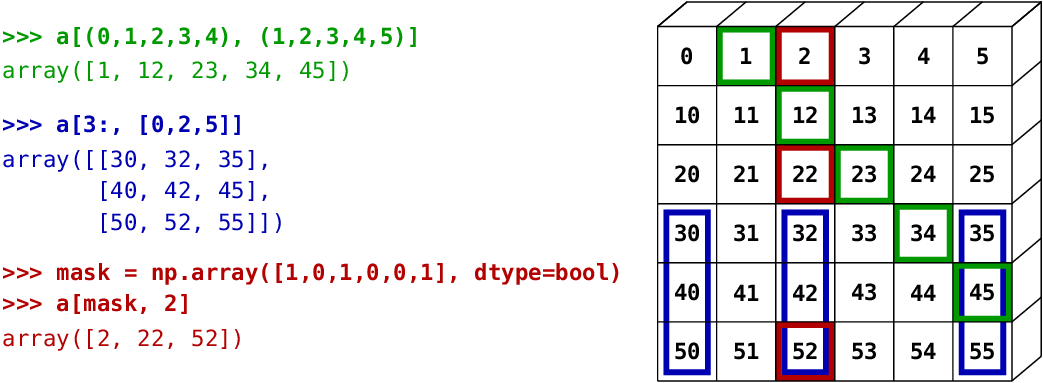
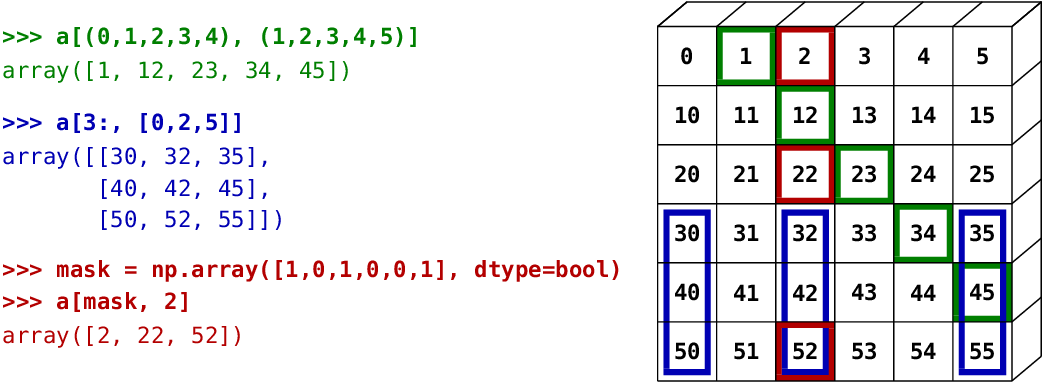
made code consistent with numpy_indexing image

diff --git a/pyximages/numpy_fancy_indexing.py b/pyximages/numpy_fancy_indexing.py
@@ -11,17 +11,36 @@ from math import cos, radians, sin
 from pyx import canvas, color, path, text, unit
 
 
-def markbox(x, y, boxcolor, linewidthfactor=0.1, boxsize=1):
-    '''mark box by a colored line
+def framebox(nx, ny, framecolor, nw=1, nh=1, boxsize=1, framefactor=0.1,
+             reducedsize=False):
+    '''draw color frame in one or across several boxes
 
-       the drawing is done on the global canvas called c
+       The drawing is done on the global canvas called c.
+
+       nx, ny:      coordinates of lower left corner in number of boxes
+       framecolor:  color
+       nw, nh:      width and height of frame in boxes
+       framefactor: framewidth as fraction of boxsize
+       boxsize:     side length of fox
+       reducedsize: if True, the size of the frame is reduced by the framewidth
+
     '''
-    linewidth = linewidthfactor*boxsize
-    p = (path.rect(x, y, boxsize, boxsize)
-         + path.rect(x+linewidth, y+linewidth,
-                     boxsize-2*linewidth, boxsize-2*linewidth).reversed()
+    x = nx*boxsize
+    y = ny*boxsize
+    w = nw*boxsize
+    h = nh*boxsize
+    if reducedsize:
+        outer_offset = framefactor*boxsize
+        inner_offset = 2*outer_offset
+    else:
+        outer_offset = 0
+        inner_offset = framefactor*boxsize
+    p = (path.rect(x+outer_offset, y+outer_offset,
+                   w-2*outer_offset, h-2*outer_offset)
+         + path.rect(x+inner_offset, y+inner_offset,
+                     w-2*inner_offset, h-2*inner_offset).reversed()
          )
-    c.fill(p, [boxcolor])
+    c.fill(p, [framecolor])
 
 
 ncols = 6
@@ -30,37 +49,28 @@ boxsize = 1
 angle = radians(40)
 reducedboxsize = 0.65*boxsize
 
+ex1color = color.rgb(0, 0.5, 0)
+ex2color = color.rgb(0, 0, 0.7)
+ex3color = color.rgb(0.7, 0, 0)
+
 text.set(text.LatexRunner)
-text.preamble(r'''\usepackage[T1]{fontenc}
-                  \usepackage{bera}
-                  \renewcommand*\familydefault{\ttdefault}
-                  \usepackage{color}
-                  \definecolor{ex1}{rgb}{0, 0, 0.7}
-                  \definecolor{ex2}{rgb}{0, 0.6, 0}
-                  \definecolor{ex3}{rgb}{0.7, 0, 0}''')
+preamble = r'''\usepackage[T1]{fontenc}
+               \usepackage{bera}
+               \renewcommand*\familydefault{\ttdefault}
+               \usepackage{color}'''
+for nr, elem in enumerate((ex1color, ex2color, ex3color)):
+    preamble = preamble+r'\definecolor{{ex{}color}}{{rgb}}{{{}, {}, {}}}'.format(
+                  nr+1, elem.r, elem.g, elem.b)
+text.preamble(preamble)
 unit.set(xscale=1.2)
 
 c = canvas.canvas()
-
-ex1color = color.rgb(0, 0, 0.7)
-linewidth = 0.1*boxsize
-for n in (0, 2, 5):
-    c.fill(path.rect(n*boxsize+linewidth, linewidth,
-                     boxsize-2*linewidth, 3*boxsize-2*linewidth),
-           [ex1color])
-    c.fill(path.rect(n*boxsize+2*linewidth, 2*linewidth,
-                     boxsize-4*linewidth, 3*boxsize-4*linewidth),
-           [color.grey(1)])
-
-ex2color = color.rgb(0, 0.6, 0)
-linewidth = 0.1
 for n in range(5):
-    markbox((n+1)*boxsize, (ncols-n-1)*boxsize, ex2color)
-
-ex3color = color.rgb(0.7, 0, 0)
-linewidth = 0.1
+    framebox(n+1, ncols-n-1, ex1color)
+for nx in (0, 2, 5):
+    framebox(nx, 0, ex2color, nh=3, reducedsize=True)
 for n in (0, 2, 5):
-    markbox(2*boxsize, (ncols-n-1)*boxsize, ex3color)
+    framebox(2, (ncols-n-1), ex3color)
 
 for nx in range(ncols+1):
     p = path.path(path.moveto(nx*boxsize, 0),
@@ -78,30 +88,43 @@ p = path.path(path.moveto(ncols*boxsize+reducedboxsize*cos(angle),
               path.rlineto(-nrows*boxsize, 0),
               path.rlineto(-reducedboxsize*cos(angle), -reducedboxsize*sin(angle)))
 c.stroke(p)
+
 for nx in range(ncols):
     x = (nx+0.5)*boxsize
     for ny in range(nrows):
         y = (ncols-ny-0.5)*boxsize
-        c.text(x, y, r'\textbf{{{}}}'.format(ny*10+nx), [text.halign.center, text.valign.middle])
+        c.text(x, y, r'\textbf{{{}}}'.format(ny*10+nx),
+               [text.halign.center, text.valign.middle])
 
 parwidth = 10.6
-s = r'''\noindent\textcolor{ex2}{\bfseries>{}>{}> a[(0,1,2,3,4), (1,2,3,4,5)]}\\[0.1\baselineskip]
-        \textcolor{ex2}{array([1, 12, 23, 34, 45])}
-     '''
-c.text(-parwidth-0.5, ncols*boxsize, s, [text.valign.top, text.parbox(parwidth)])
+inputtemplate = r'\noindent\textcolor{{ex{}color}}{{\bfseries>{{}}>{{}}> {}}}'
+resulttemplate = r'\textcolor{{ex{}color}}{{{}}}'
+myattrs = [text.valign.top, text.parbox(parwidth)]
+textblockdist = 0.5
+ytop = ncols*boxsize
 
-s = r'''\noindent\textcolor{ex1}{{\bfseries>{}>{}> a[3:, [0,2,5]]}\\[0.1\baselineskip]
-        \textcolor{ex1}{array([[30, 32, 35],}\\
-        \textcolor{ex1}{\hphantom{array([}[40, 42, 45],}\\
-        \textcolor{ex1}{\hphantom{array([}[50, 52, 55]])}}
-     '''
-c.text(-parwidth-0.5, ncols*boxsize-1.5, s, [text.valign.top, text.parbox(parwidth)])
+for s in ((inputtemplate.format('1', 'a[(0,1,2,3,4), (1,2,3,4,5)]')
+           + r'\\[0.1\baselineskip]'
+           + resulttemplate.format('1', r'array([1, 12, 23, 34, 45])')
+           ),
+          (inputtemplate.format('2', 'a[3:, [0,2,5]]')
+           + r'\\[0.1\baselineskip]'
+           + resulttemplate.format('2', 'array([[30, 32, 35],')
+           + r'\\'
+           + resulttemplate.format('2', r'\hphantom{array([}[40, 42, 45],')
+           + r'\\'
+           + resulttemplate.format('2', r'\hphantom{array([}[50, 52, 55]])')
+           ),
+          (inputtemplate.format('3', 'mask = np.array([1,0,1,0,0,1], dtype=bool)')
+           + r'\\'
+           + inputtemplate.format('3', 'a[mask, 2]')
+           + r'\\[0.1\baselineskip]'
+           + resulttemplate.format('3', 'array([2, 22, 52])')
+           )):
+    t = text.text(-parwidth-0.5, ytop, s, myattrs)
+    c.insert(t)
+    ytop = ytop-t.bbox().height()-textblockdist
 
-s = r'''\noindent\textcolor{ex3}{\bfseries>{}>{}> mask = np.array([1,0,1,0,0,1], dtype=bool)}\\
-        \textcolor{ex3}{\bfseries>{}>{}> a[mask, 2]}\\[0.1\baselineskip]
-        \textcolor{ex3}{array([2, 22, 52])}
-     '''
-c.text(-parwidth-0.5, ncols*boxsize-4, s, [text.valign.top, text.parbox(parwidth)])
 
 basename = os.path.splitext(sys.argv[0])[0]
 c.writeGSfile(basename+'.png', resolution=150)
